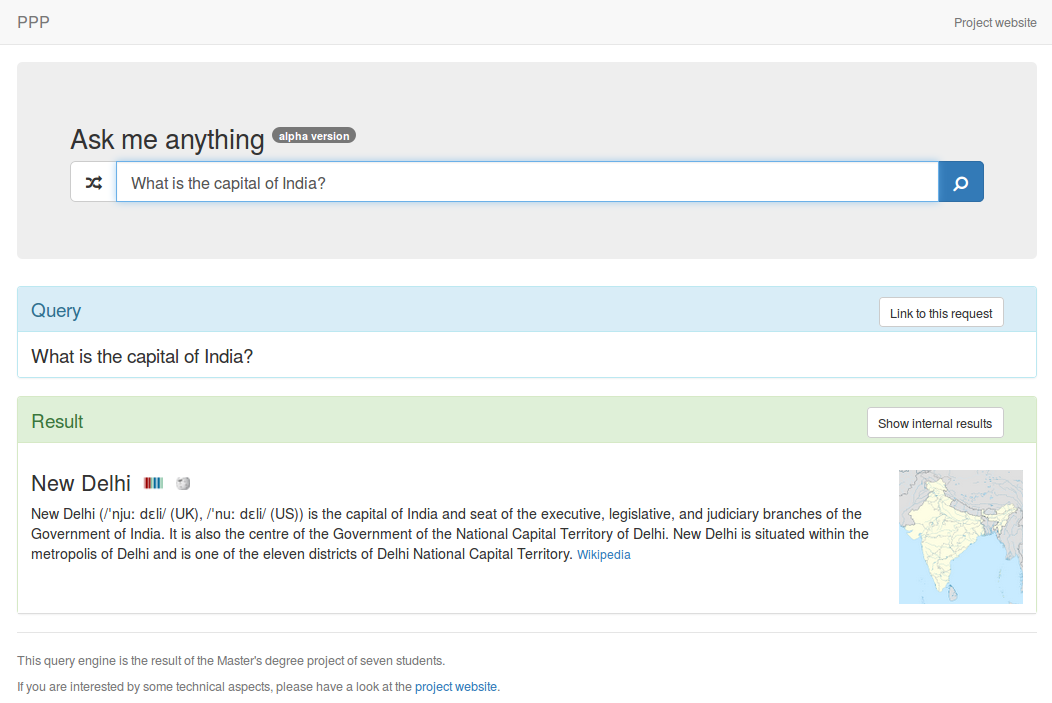
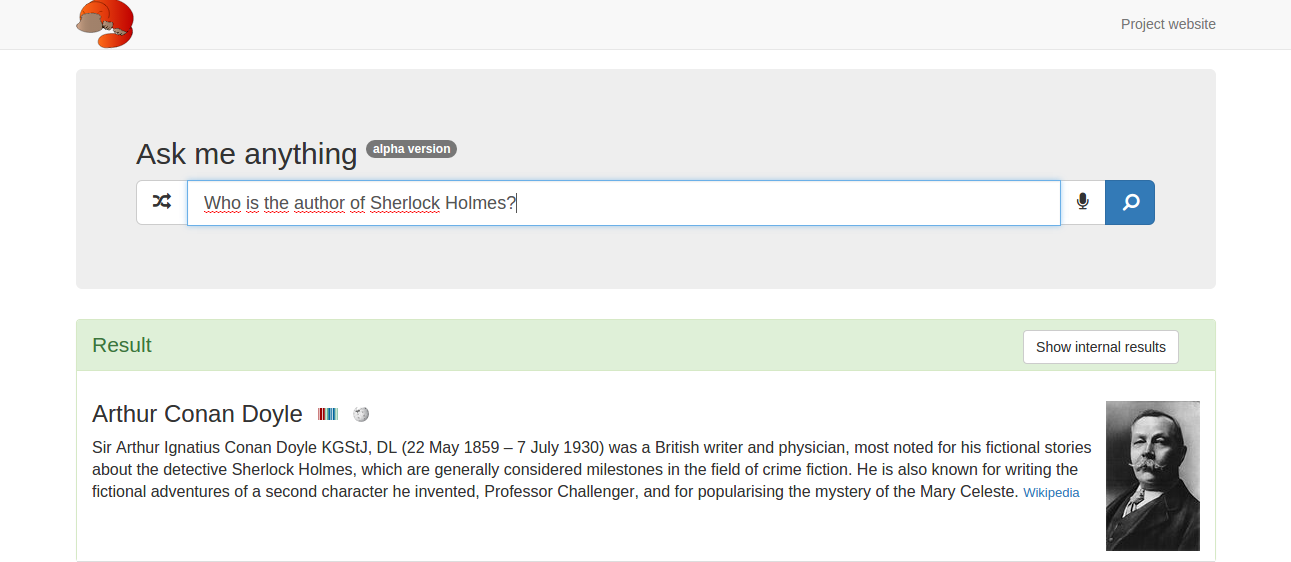
New screenshots.

diff --git a/FinalReport/UI.tex b/FinalReport/UI.tex
@@ -7,7 +7,13 @@ and small screens of phones using responsive design techniques.
 \begin{figure}[!ht]
     \centering
     \includegraphics[width=1\textwidth]{WebUI.png}
-    \caption{The user interface}
+    \caption{The user interface (Wikipedia header)}
+\end{figure}
+
+\begin{figure}[!ht]
+    \centering
+    \includegraphics[width=1\textwidth]{WebUI2.png}
+    \caption{The user interface (OpenStreetMap location)}
 \end{figure}
 
 It is composed of one huge text input with a button to submit
